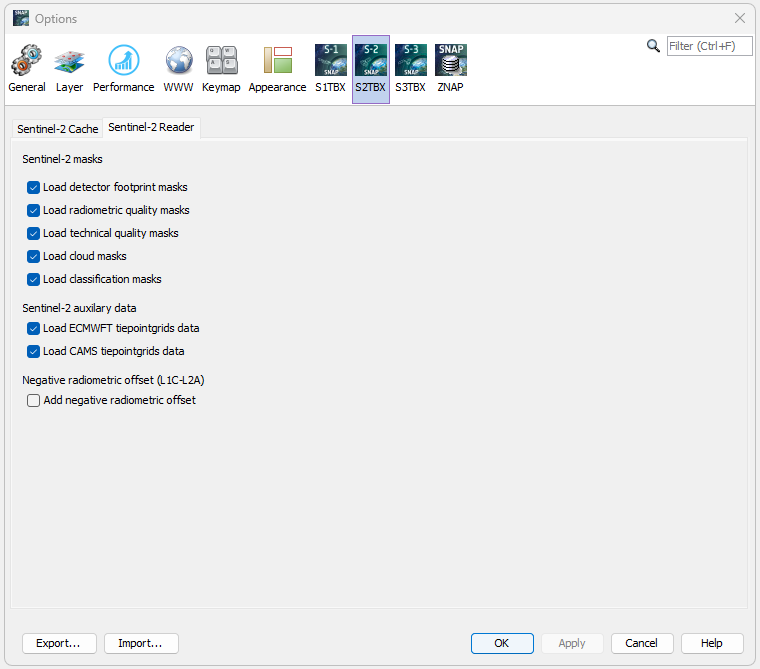
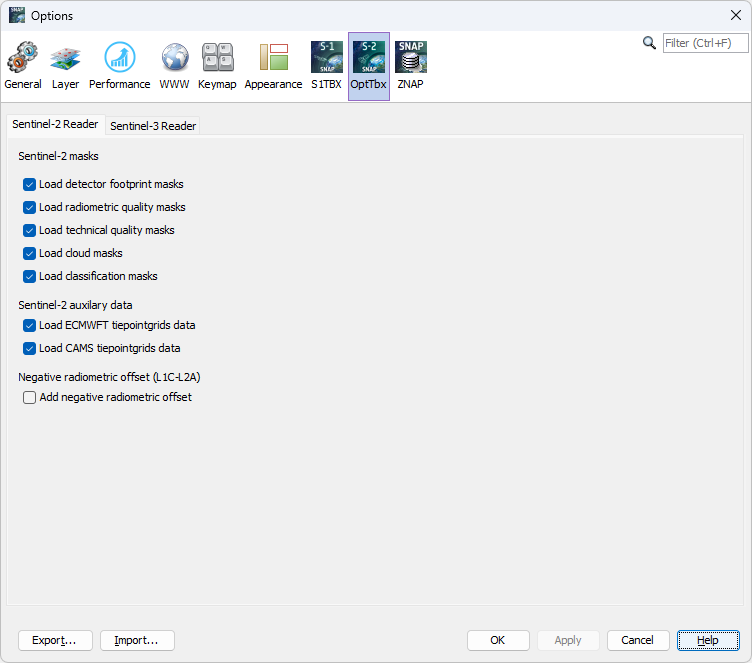
Update title & TOC for S2 & S3 readers, remove s2cache.png image, replace s2reader.png & BeepSound.png images.

Changed region(s): [[0.0, 0.0, 0.6414, 0.4217], [0.0, 0.0, 1.0, 1.0], [0.0, 0.4518, 0.2749, 0.6024]]

diff --git a/opttbx-s2msi-reader-ui/src/main/resources/eu/esa/opt/dataio/s2/preferences/ui/msi/docs/s2tbx/S2TBXOptions.html b/opttbx-s2msi-reader-ui/src/main/resources/eu/esa/opt/dataio/s2/preferences/ui/msi/docs/s2tbx/S2TBXOptions.html
@@ -16,7 +16,7 @@
 
 <html>
 <head>
-    <title>Sentinel Toolbox Help - S2TBX options</title>
+    <title>Sentinel Toolbox Help - Optical Toolbox options</title>
     <link rel="stylesheet" href="../style.css">
 </head>
 
@@ -25,7 +25,7 @@
 <table class="header">
     <tr class="header">
         <td class="header">&nbsp;
-            S2TBX options
+            Sentinel-2 Reader options
         </td>
 
         <td class="header" align="right"><a
@@ -33,22 +33,6 @@
                 src="../images/snap_header.jpg" border=0></a></td>
     </tr>
 </table>
-
-<h4>Sentinel-2 Cache</h4>
-
-<p>
-    It is possible to configure the Sentinel-2 Cache and to select if, to load or not, the different S2 masks.
-</p>
-
-<img src="../images/s2cache.png" border=0/>
-
-<p><br>The S2 images are originally in JP2 format. These images are decompressed (by tiles) to new GeoTiff images internally in SNAP.
-     These GeoTiff images are stored in [userFolder]/.snap/var/cache/s2tbx in order to be available in the future when working with the same images.
-     The user can select in the S2TBX options interface when to delete the cache and also there is a button to clean up the cache.
-     <br>Moreover, the user can active the cache size checking over the time (checked every minutes).
-     <br>Then the maximum cache size can be adapted. In case of exceeding cache size, the oldest product files should be deleted until the cache size has been reached 75% of the specified maximum.
-</p>
-
 
 <h4>Sentinel-2 Reader</h4>
 
